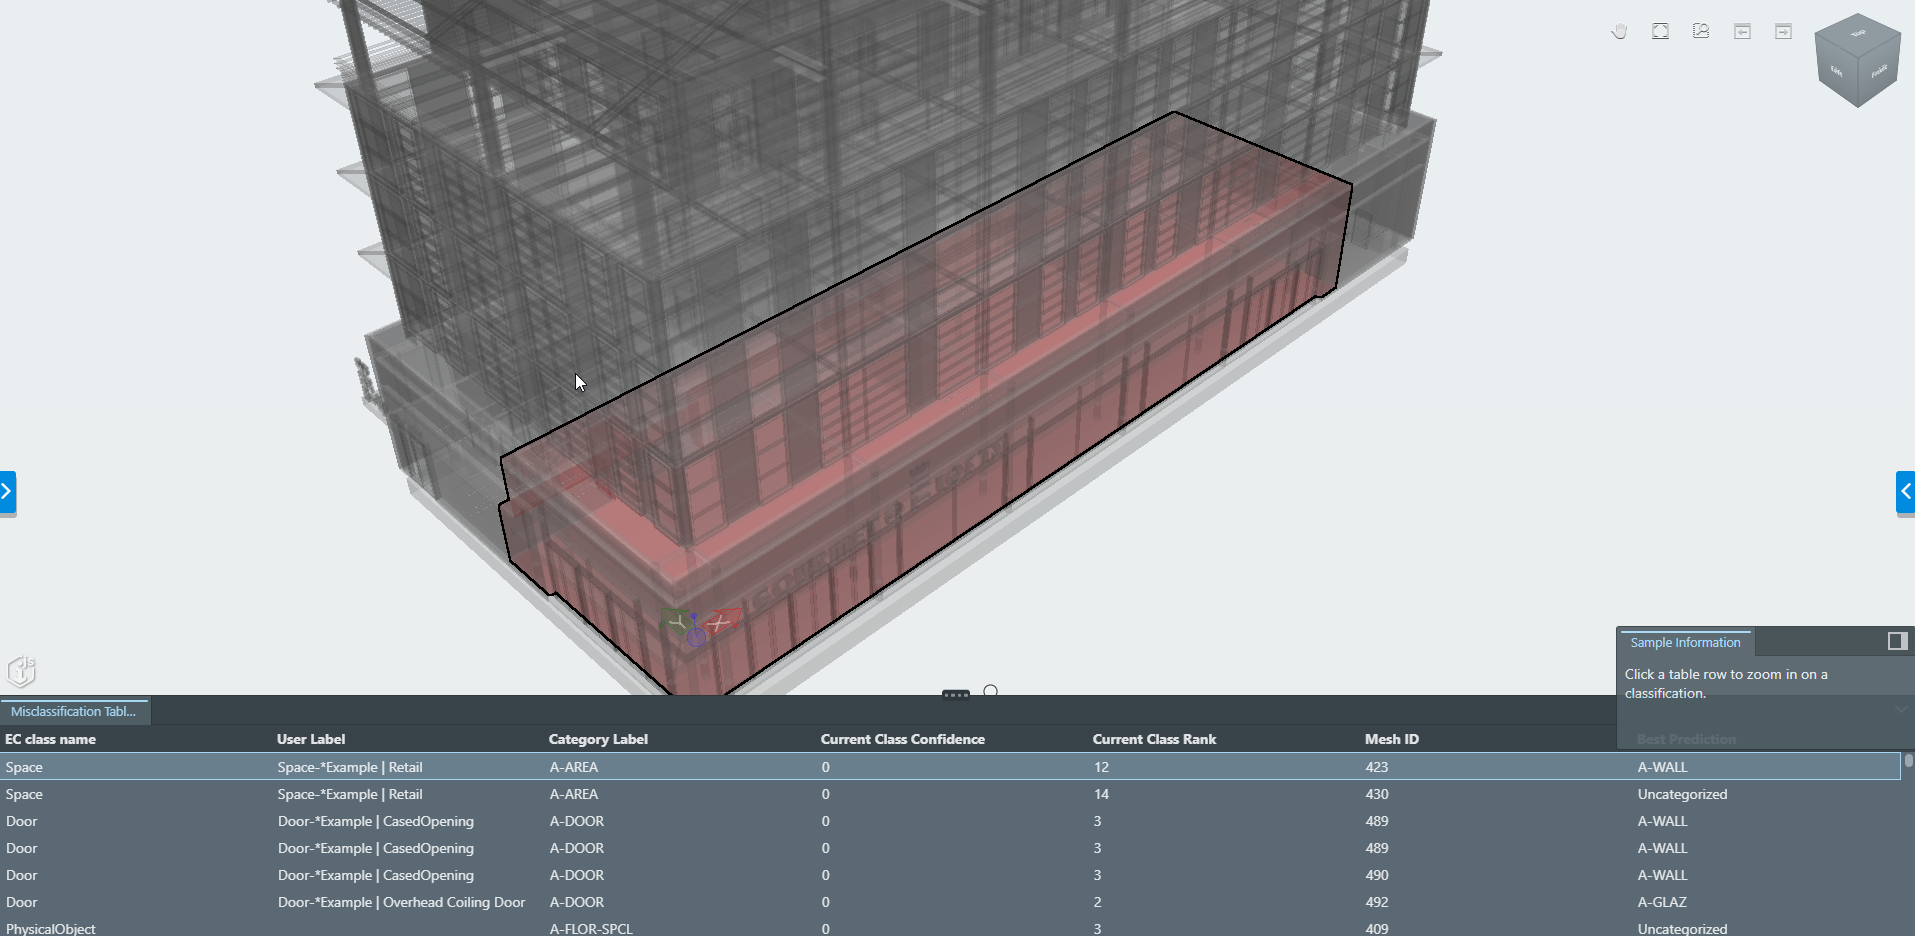
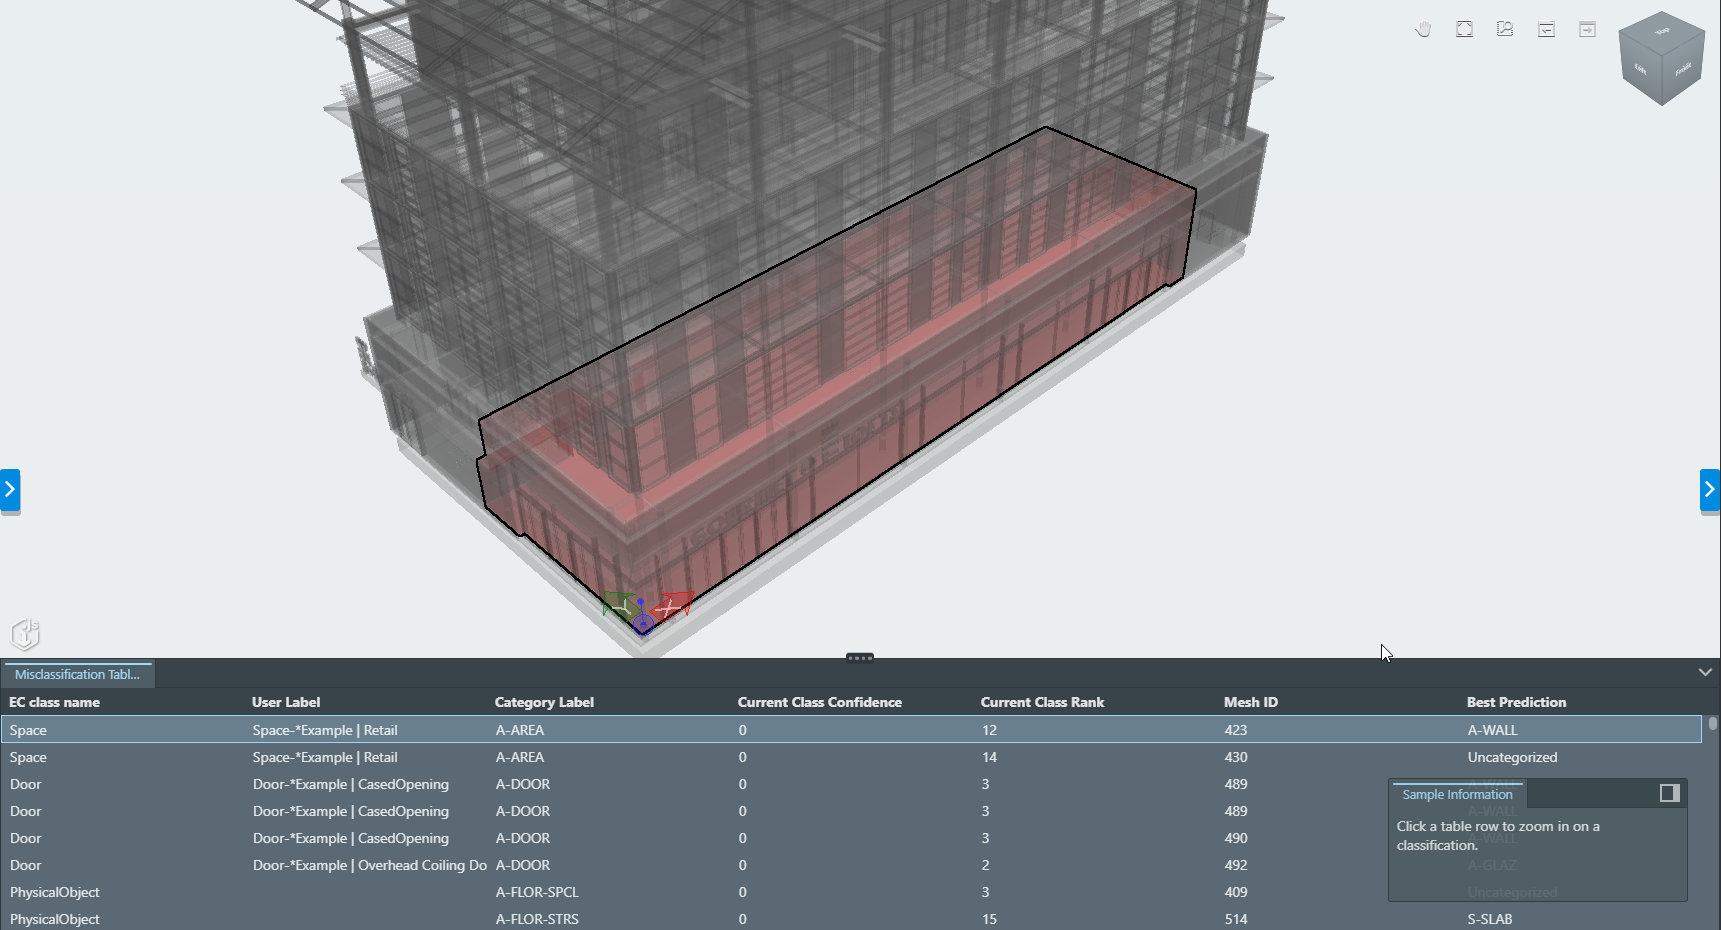
updates for PR comments

diff --git a/src/frontend-samples/missclassification-sample/sampleSpec.ts b/src/frontend-samples/missclassification-sample/sampleSpec.ts
@@ -11,6 +11,7 @@ export function getMisclassificationSpec(): SampleSpec {
     name: "misclassification-sample",
     label: "Misclassification",
     image: "classification.png",
+    description: "Uses the design #validation api to get and visualize #misclassified elements from a #misclassification test ran in the #machine #learning api.",
     readme: async () => import("!!raw-loader!./readme.md"),
     iTwinViewerReady: true,
     files: () => [
@@ -19,7 +20,7 @@ export function getMisclassificationSpec(): SampleSpec {
       { name: "MisclassificationTableWidget.tsx", import: import("!!raw-loader!./MisclassificationTableWidget.tsx") },
       { name: "MisclassificationsJson.ts", import: import("!!raw-loader!./MisclassificationsJson.ts") },
     ],
-    iModelList: [SampleIModels.BayTown],
+    iModelList: [SampleIModels.RetailBuilding],
     type: "MisclassificationApp.tsx",
   });
 }

diff --git a/src/frontend-samples/missclassification-sample/MisclassificationTableWidget.tsx b/src/frontend-samples/missclassification-sample/MisclassificationTableWidget.tsx
@@ -41,11 +41,16 @@ const MisclassificationTableWidget: React.FunctionComponent = () => {
         // download the results
         const sasUri = testResults.resultSasUri;
 
+        // the ML sasURI is guarded by a launch darkly flag
+        // there was an issue adding the showcase user, so in the case the flag is off,
+        // fallback on hardcoded JSON
         if (sasUri.includes("resanalysis")) {
           setMisclassData(MisclassificationsJson);
           return;
         }
 
+        // Fallbacks to hardcoded data were added to gaurantee demo functionality in case of SAS token failures
+        // This is not viable practice in production environments
         const testData = await MisclassificationApi.getTestResultsData(sasUri);
         if (testData !== undefined) {
           const testDataObj = JSON.parse(testData);

diff --git a/src/sampleManifest.tsx b/src/sampleManifest.tsx
@@ -166,8 +166,8 @@ export const sampleManifest: SampleSpecGroup[] = [{
   groupName: "iTwin Platform APIs", samples: [
     getClashReviewSpec(),
     getIssuesSpec(),
-    getReadSettingsSpec(),
     getMisclassificationSpec(),
+    getReadSettingsSpec(),
   ],
 
 },

diff --git a/src/frontend-samples/missclassification-sample/readme.md b/src/frontend-samples/missclassification-sample/readme.md
@@ -2,18 +2,18 @@
 
 Copyright © Bentley Systems, Incorporated. All rights reserved.
 
-This sample demonstrates calling Design Validation APIs to retrieve results of a misclassification test and present it for review in a viewer app.
+This sample demonstrates calling Design Validation APIs to retrieve misclassified element data and present it for review in a viewer app.
 
 ## Purpose
 
-- Populate table of sample misclassification results.
+- Use a DataProvider to populate table of sample misclassification results.
 - Visualize a misclassified element with a red highlight.
 - Zoom to a misclassified element on table selection.
 - Provide [code examples](./MisclassificationApi.ts) for calling the Misclassification Test APIs.
 
 ## Description
 
-A Misclassification test is used to analyze potential element misclassifications using a ML model pipeline.
+A Misclassification test is used to analyze potential element misclassifications using a machine learning model pipeline. Using a pre-registered ML model, a test can be created and triggered through Design Validation. The misclassified elements of the test can be then be downloaded through a sas URI fetched from ML api via Design Validation.
 
 The goal of this sample is to provide an example of the usage of Design Validation APIs to create, run and fetch the results of a new classification test. [Misclassifications sample data](./MisclassificationsJson.ts) is also provided to show the format of the data returned from the API.
 
